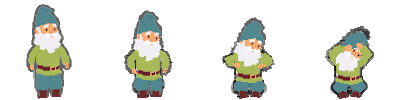
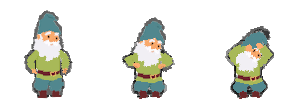
Collector. defense start

diff --git a/src/gameApp/units/Collector.ts b/src/gameApp/units/Collector.ts
@@ -50,7 +50,7 @@ import WoodArmorImage from '../../assets/img/units/woodArmor.png';
 //import CollectorFallEndWoodArmorImage from '../../assets/img/units/collector/woodArmor/fallEnd.png'; 
 import CollectorCollectWoodArmorImage from '../../assets/img/units/collector/woodArmor/collect.png'; 
 //import CollectorDefenseWoodArmorImage from '../../assets/img/units/collector/woodArmor/defense.png'; 
-//import CollectorDefenseStartWoodArmorImage from '../../assets/img/units/collector/woodArmor/defenseStart.png'; 
+import CollectorDefenseStartWoodArmorImage from '../../assets/img/units/collector/woodArmor/defenseStart.png'; 
 import CollectorPassiveWait1WoodArmorImage from '../../assets/img/units/collector/woodArmor/passiveWaiting.png'; 
 import CollectorRunWoodArmorImage from '../../assets/img/units/collector/woodArmor/run.png'; 
 import CollectorJoyWoodArmorImage from '../../assets/img/units/collector/woodArmor/joy.png'; 
@@ -58,7 +58,6 @@ import CollectorJoyWoodArmorImage from '../../assets/img/units/collector/woodArm
 
 import CollectorFallEndWoodArmorImage from '../../assets/img/units/collector/woodArmor/passiveWaiting.png'; 
 import CollectorDefenseWoodArmorImage from '../../assets/img/units/collector/woodArmor/passiveWaiting.png'; 
-import CollectorDefenseStartWoodArmorImage from '../../assets/img/units/collector/woodArmor/passiveWaiting.png'; 
 
 import shieldIcon from '../../assets/img/icons/shieldContrast.png';  
 import speedIcon from '../../assets/img/icons/speed.png';  
@@ -162,7 +161,7 @@ export class Collector extends Unit{
 		this._isDefenseActivated = false;
 		this._isDefenseDeactivationStarted = false;
 
-		this.defenseActivationAnimation = new Animation(4, 400, Collector.defenseStartImage);
+		this.defenseActivationAnimation = new Animation(3, 300, Collector.defenseStartImage);
 		this.defenseActivationArmorAnimation = new Animation(this.defenseActivationAnimation.frames, this.defenseActivationAnimation.durationMs);
 		this.defenseActivationToolAnimation = new Animation(this.defenseActivationAnimation.frames, this.defenseActivationAnimation.durationMs);
 
